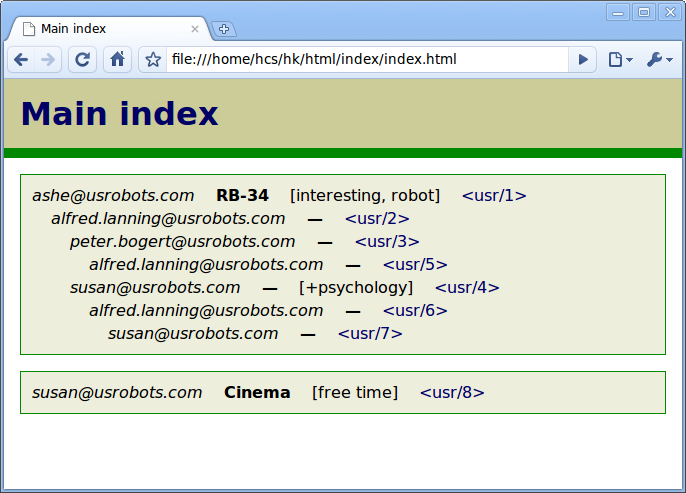
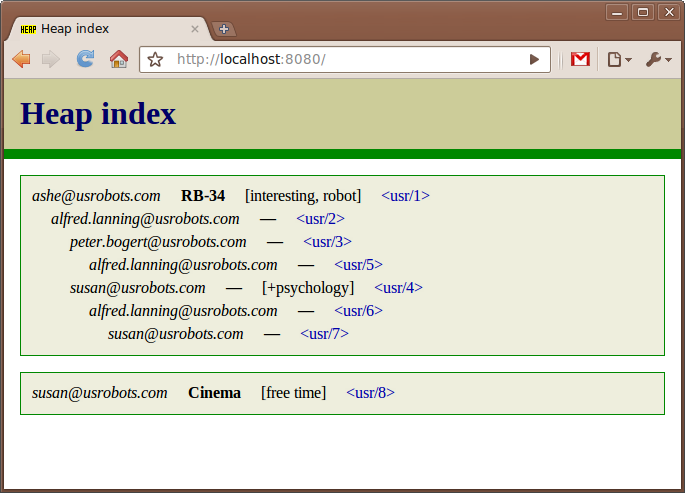
Tutorial: updated for v0.6
[v0.6]

Changed region(s): [[0.0, 0.0, 1.0, 1.0]]

diff --git a/doc/tutorial.rst b/doc/tutorial.rst
@@ -51,16 +51,16 @@ Then download the latest version of Heapkeeper (either in `tar.gz`__ or in
 
 .. code-block:: sh
 
-    $ wget http://heapkeeper.org/releases/heapkeeper-0.5.tar.gz
+    $ wget http://heapkeeper.org/releases/heapkeeper-0.6.tar.gz
 
-__ http://heapkeeper.org/releases/heapkeeper-0.5.tar.gz
-__ http://heapkeeper.org/releases/heapkeeper-0.5.zip
+__ http://heapkeeper.org/releases/heapkeeper-0.6.tar.gz
+__ http://heapkeeper.org/releases/heapkeeper-0.6.zip
 
 Unzip the tar.gz or zip file. For Unix users:
 
 .. code-block:: sh
 
-    $ tar xzf heapkeeper-0.5.tar.gz
+    $ tar xzf heapkeeper-0.6.tar.gz
 
 Make Heapkeeper's directory the current one. Heapkeeper's shell (|hkshell|) can
 be started from here without any installation procedure. You can ask for
@@ -68,9 +68,9 @@ version information for example:
 
 .. code-block:: sh
 
-    $ cd heapkeeper-0.5
+    $ cd heapkeeper-0.6
     $ python hk.py --version
-    Heapkeeper version 0.5
+    Heapkeeper version 0.6
 
 Or you can execute the automatic test:
 
@@ -78,7 +78,7 @@ Or you can execute the automatic test:
 
     $ python test.py
     ----------------------------------------------------------------------
-    Ran 126 tests in 0.172s
+    Ran 126 tests in 0.379s
 
     OK
 
@@ -87,25 +87,20 @@ Or you can execute the automatic test:
 Configuration
 -------------
 
-First, we create two directories: ``posts`` and ``html``. ``posts`` will store
-the :ref:`heap <glossary_heap>`, i.e. the post database, which contains the
+First, we create a directory called ``posts``. ``posts`` will store the
+:ref:`heap <glossary_heap>`, i.e. the post database, which contains the
 :ref:`posts <glossary_post>` themselves in text files (so-called :ref:`post
-files <glossary_post_file>`). The ``html`` directory will contain the HTML
-pages that will be generated from the posts.
+files <glossary_post_file>`).
 
 .. code-block:: sh
 
     $ mkdir posts
-    $ mkdir html
 
 Heapkeeper needs a file called ``hk.cfg`` in which its settings are stored.
 We set the directories that we just created to be used as post database and
 HTML generation target.
 
 .. code-block:: ini
-
-    [paths]
-    html_dir=html
 
     # Heap for U.S. Robots and Mechanical Men, Inc.
     [heaps/usr]
@@ -127,8 +122,6 @@ Start |hkshell|:
 .. code-block:: sh
 
     $ python hk.py
-    Importing hkrc...
-    Module not found: "hkrc"
 
     >>>
 
@@ -325,15 +318,20 @@ have a Unix shell, you can create the post files in the same way we created
 Generating HTML pages
 ---------------------
 
-The posts and the threads can be visualized in HTML by starting a webserver::
+The posts and the threads can be visualized by either generating static HTML
+pages or by starting a webserver that will serve the HTML pages dynamically. We
+will use the latter because it is often more convenient and also allows editing
+the posts. ::
 
     $ python hk.py
 
-    >>> g()
-    Generating index.html...
-    Generating thread pages...
+    >>> import hkweb
+    >>> hkweb.start(8080)
+    Web service started.
+    http://0.0.0.0:8080/
+    >>>
 
-Open ``html/index/index.html`` in a browser. You will see something like this:
+Open ``localhost:8080`` in a browser. You will see something like this:
 
 .. image:: images/1.png
       :align: center
@@ -345,26 +343,27 @@ only one post. In the first box, the posts are ordered in a threaded structure:
 for example both post 3 and 4 are replies to post 2.
 
 A post summary shows the author, the subject, the tags and the id (so-called
-*heapid*) of the post. The heapids are links, so we can click on them to read
-the posts. If we click on the heapid of the second post, the following page
-will be shown to us:
+:ref:`post id <glossary_post_id>`) of the post. The post ids are links, so we
+can click on them to read the posts. If we click on the post id of the second
+post (``usr/2``), the following page will be shown to us:
 
 .. image:: images/2.png
       :align: center
 
-This page contains the thread in which post 2 is located. The parent of each
-post is written after its heapid after an arrow sign.
+This page contains the thread in which post ``usr/2`` is located, and the
+browser scrolls so that ``usr/2`` is at the top. The post id of the parent and
+children of each post is written after the post's post id.
 
 .. _manipulating_posts:
 
 Modifying the heap with |hkshell|
 ---------------------------------
 
-The collection of the posts is called the *heap*. One of Heapkeeper's aims is to
-make it easy to perform operations of large amount of posts. Theoretically, you
-can do anything you want with the post database that is stored in the post
-files: you can use text editors, Unix text processing tools to modify the heap,
-or even write own scripts and programs.
+One of Heapkeeper's aims is to make it easy to perform operations of large
+amount of posts. Theoretically, you can do anything you want with the post
+database that is stored in the post files: you can use text editors, Unix text
+processing tools to modify the managed heaps, or even write own scripts and
+programs.
 
 A more convenient way to do this is to use Heapkeeper's shell and API. We
 already used the former one to create a new post and to generate the HTML pages.
@@ -384,7 +383,7 @@ short names that are essentially mnemonics. See the list of |hkshell| commands
 ::::::::::::::
 
 First let's have a look at the |ls| command. It prints out the header of given
-post or posts, which can be specified for example by their heapid. If no posts
+post or posts, which can be specified for example by their post id. If no posts
 are specified, it prints the header of all posts. The posts in the output of
 |ls| have the same indentation as in the index page that we saw previously. ::
 
@@ -442,6 +441,9 @@ The default heap can be printed using |gh|::
 
     >>> gh()
     'usr
+
+Note: when there is only one heap in the configuration file (as now), that heap
+is automatically selected as the default heap.
 
 Manipulating the subject and tags
 :::::::::::::::::::::::::::::::::
@@ -504,21 +506,15 @@ works like |enew|, but receives the content of the post as an argument::
     ...          "Ashe\n")
     Post created.
     <post usr/9>
-    >>> g()
-    Generating index.html...
-    Generating thread pages...
 
-The generated page will look like this:
+If you refresh ``localhost:8080`` in your browser, it will look like this:
 
 .. image:: images/4.png
       :align: center
 
-Let's join post 8 and 9 and regenerate the index page::
+Let's join post 8 and 9::
 
     >>> j(8, 9)
-    >>> g()
-    Generating index.html...
-    Generating thread pages...
 
 On the new index page, we will see that the two "Cinema" posts are in one
 thread now, and post 8 is the parent of post 9:
@@ -591,7 +587,7 @@ Let's create a new post and change its content using |Post| methods! ::
     http://buyrobot99.com
 
 A post can be deleted either using the :class:`Post.delete <hklib.Post.delete>`
-method or the |d| command. After deletion, the heapid will remain occupied and
+method or the |d| command. After deletion, the post id will remain occupied and
 the |Post| object will still exist, but the post will not show up in either the
 generated HTML pages, or in the result of :func:`postdb().all()
 <hklib.PostDB.all>` or :func:`ls() <hkshell.ls>`. Its content will be replaced
@@ -737,9 +733,6 @@ download the emails from:
 
 .. code-block:: none
 
-    [paths]
-    html_dir=html
-
     [heaps/myheap]
     path=myheap_posts
 
@@ -755,10 +748,6 @@ Start Heapkeeper:
     $ ./hk.py
     Warning: post directory does not exists: "myheap_posts"
     Post directory has been created.
-    Warning: HTML directory does not exists: "myheap_html"
-    HTML directory has been created.
-    Importing hkrc...
-    Module not found: "hkrc"
 
     >>>
 
@@ -878,17 +867,12 @@ Modify the configuration file to manage the Heapkeeper Heap:
 
 .. code-block:: none
 
-    [paths]
-    html_dir=hh_html
-
     [heaps/hh]
     path=heapkeeper-heap/posts
 
 In this configuration file the ``heaps/my_heaps`` sections were removed, but
 they can be left as they were in the previous section, and then Heapkeeper will
-manage both heaps simultaneously. Note that only one ``html_dir`` can be
-specified, so the posts of the heaps will be handled as one data store
-[#post_index_collision]_; e.g. the index page will contains the posts of both heaps.
+manage both heaps simultaneously.
 
 After the configuration file contains the path to the Heapkeeper Heap's data
 store, you can start Heapkeeper and play around with the Heapkeeper Heap.
@@ -897,10 +881,3 @@ The web pages generated from the Heapkeeper Heap can be viewed online__.
 
 __ http://github.com/hcs42/heapkeeper-heap
 __ http://heapkeeper-heap.github.com
-
-.. rubric:: Footnotes
-
-.. [#post_index_collision] This does not mean that posts cannot have the same
-   post indices. If both heap contain a post file ``1.post``, they both will
-   have the post id ``"1"``, but Heapkeeper will differentiate them by the
-   heaps they are in.
